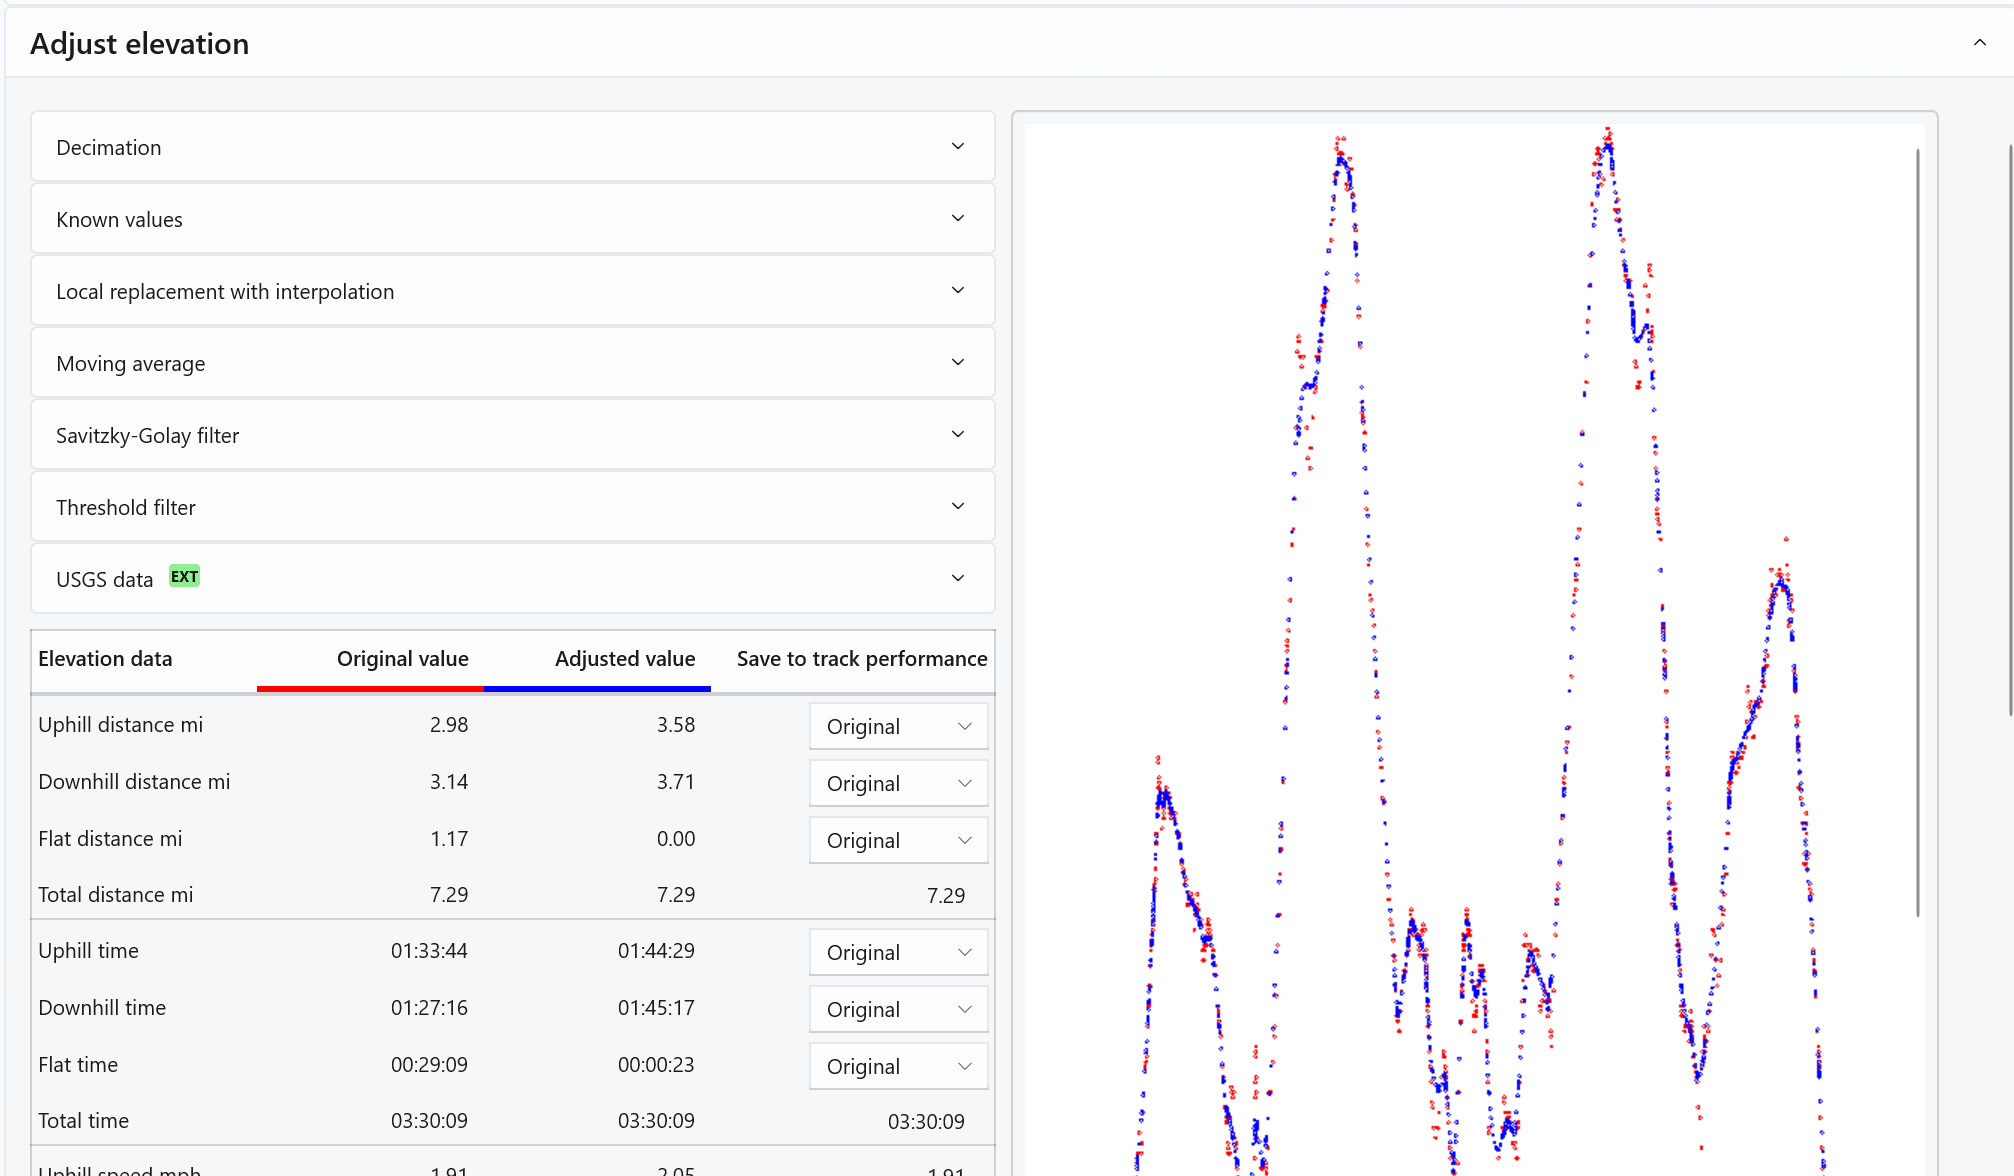
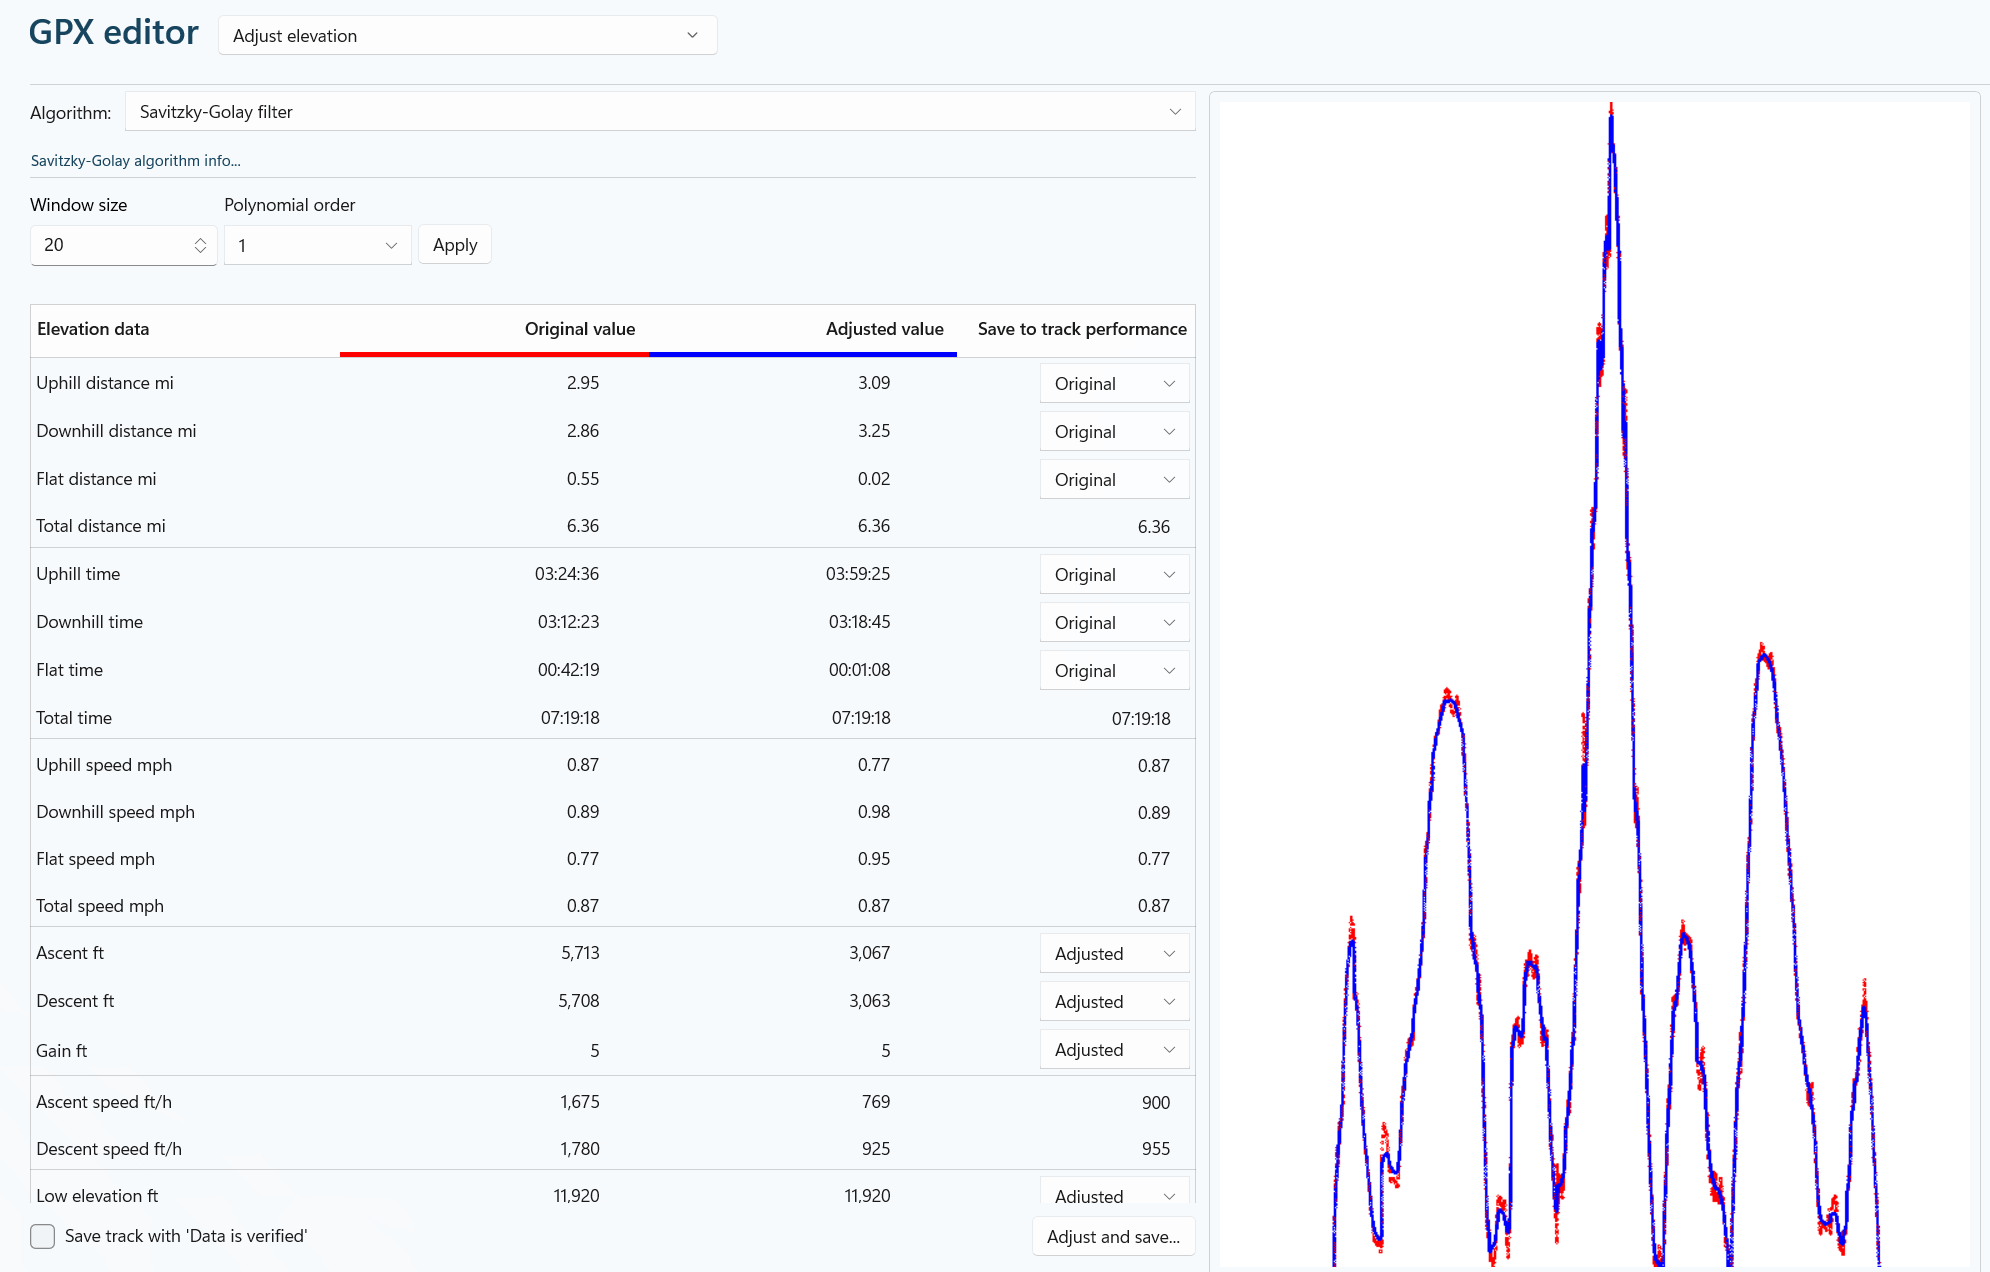
Changed screenshot

diff --git a/Trackexplorer-Help.html b/Trackexplorer-Help.html
@@ -793,7 +793,7 @@ The performance values will be recalculated based on the adjusted data. In some 
 When you save the file, you may check the Data is verified box if you think that the data is now accurate.</p>
 
         <h4>Example</h4>
-        <p>In this example, the track has been adjusted with the default settings of the Savitzky-Golay style filter. The elevation profile has been smoothed, and as a result, some of the performance values have changed substantially. The user has the option to save the original values or the adjusted ones.</p>
+        <p>In this example, the track has been adjusted with somewhat aggressive settings of the Savitzky-Golay filter. The elevation profile has been smoothed, with most spikes removed, and as a result some of the performance values have changed substantially. The user has the option to save the original values or the adjusted ones.</p>
         <img src="img/adjust.png" class="image-alone" alt="Adjusting the elevation">
 
         <h3>Delete ski lifts by distance</h3>
